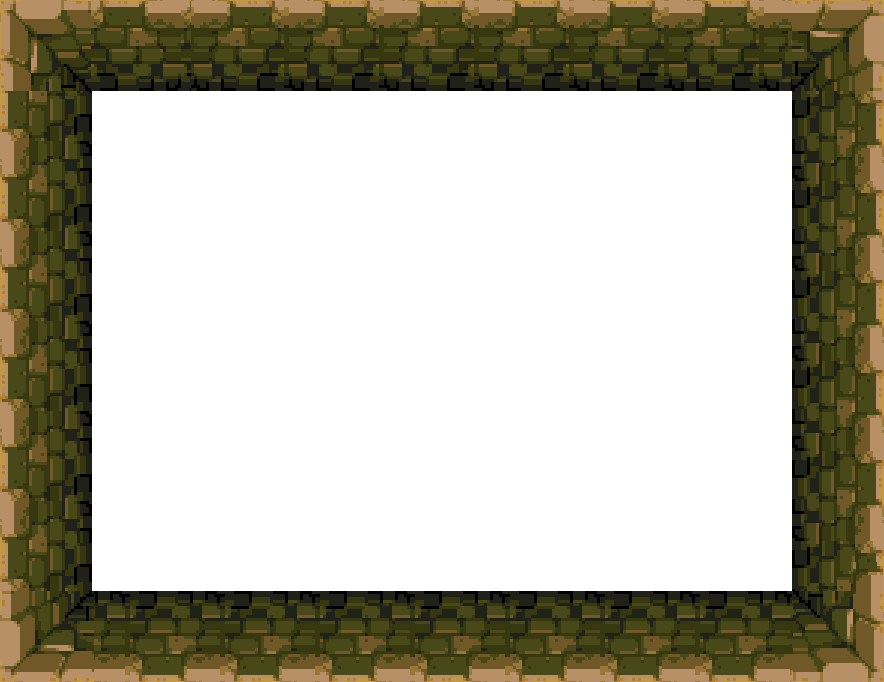
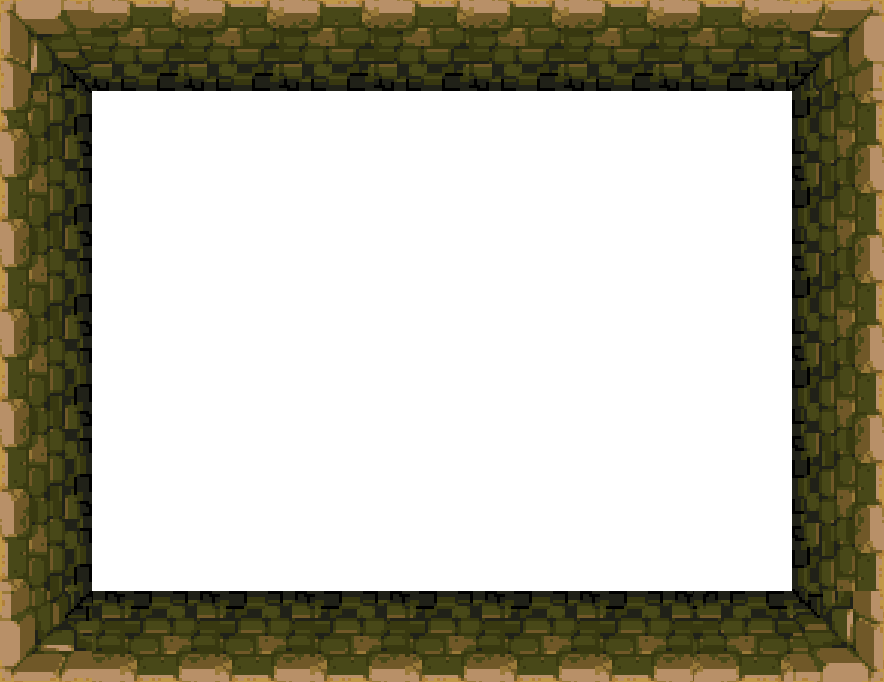
UPDATE

diff --git a/public_html/index.html b/public_html/index.html
@@ -4,15 +4,15 @@
         <title>AticAtac</title>
         <meta charset="UTF-8">      
         <link rel="stylesheet" type="text/css" href="files/style/style.css">
+        <script type="text/javascript" src="files/javascript/jquery-2.1.0.min.js"></script>   
         <script type="text/javascript" src="files/javascript/maps.js"></script>
-        <script type="text/javascript" src="files/javascript/sprites.props.js"></script>
+        <script type="text/javascript" src="files/javascript/sprites.props.js"></script>   
         <script type="text/javascript" src="files/javascript/game.player.js"></script> 
-        <script type="text/javascript" src="files/javascript/jquery-2.1.0.min.js"></script>
-        <script type="text/javascript" src="files/javascript/game.js"></script>
+        <script type="text/javascript" src="files/javascript/game.mouse-keyboard.js"></script> 
         <script type="text/javascript" src="files/javascript/game.sound.js"></script>
         <script type="text/javascript" src="files/javascript/game.score.js"></script>
-        <script type="text/javascript" src="files/javascript/game.mouse-keyboard.js"></script> 
         <script type="text/javascript" src="files/javascript/canvas.draw.js"></script>
+        <script type="text/javascript" src="files/javascript/game.js"></script>
     </head>
     <body onload="Initialize();">
         Dev: <input type="text" id="salle"><button onclick="tempChangerSalle();">Go !</button>

diff --git a/public_html/files/javascript/canvas.draw.js b/public_html/files/javascript/canvas.draw.js
@@ -73,15 +73,15 @@ function drawGround()
 function drawBorder() {
     var x = player.roomInfo[0];
     var y = player.roomInfo[1];
-    switch (player.roomInfo[2])
+    switch (player.room.type)
     {
-        case 700: //SQUARED
+        case SQUARED: //SQUARED
             Game.context.drawImage(this.border.SQUARED, x - 91, y - 91);
             break;
-        case 500: //LONGER   
-            Game.context.drawImage(this.border.LONGER, x - 91, y - 91);
+        case LONGER: //LONGER   
+            Game.context.drawImage(this.border.LONGER, x - 91, y - 92);
             break;
-        case 800: //LARGER
+        case LARGER: //LARGER
             Game.context.drawImage(this.border.LARGER, x - 92, y - 91);
             break;
     }

diff --git a/public_html/files/javascript/maps.js b/public_html/files/javascript/maps.js
@@ -57,15 +57,15 @@ function room(model, objects, doors) {
     switch (model) {
         case LONGER:
             this.width = 700;
-            this.height = 500;
+            this.height = 500;          
             break;
         case LARGER:
             this.width = 500;
-            this.height = 700;
+            this.height = 700;            
             break;
-        case SQUARED:            
+        case SQUARED:
             this.width = 700;
-            this.height = 700;
+            this.height = 700;          
             break;
     }
     this.objects = objects;

diff --git a/public_html/files/javascript/game.player.js b/public_html/files/javascript/game.player.js
@@ -13,6 +13,7 @@ function Player(type) {
     this.Map = GroundMap;
     this.room = 9;
     this.roomInfo = new Array();
+    this.mapType = 0;
     this.time = 0;
     this.score = 0;
     this.object1 = 0;
